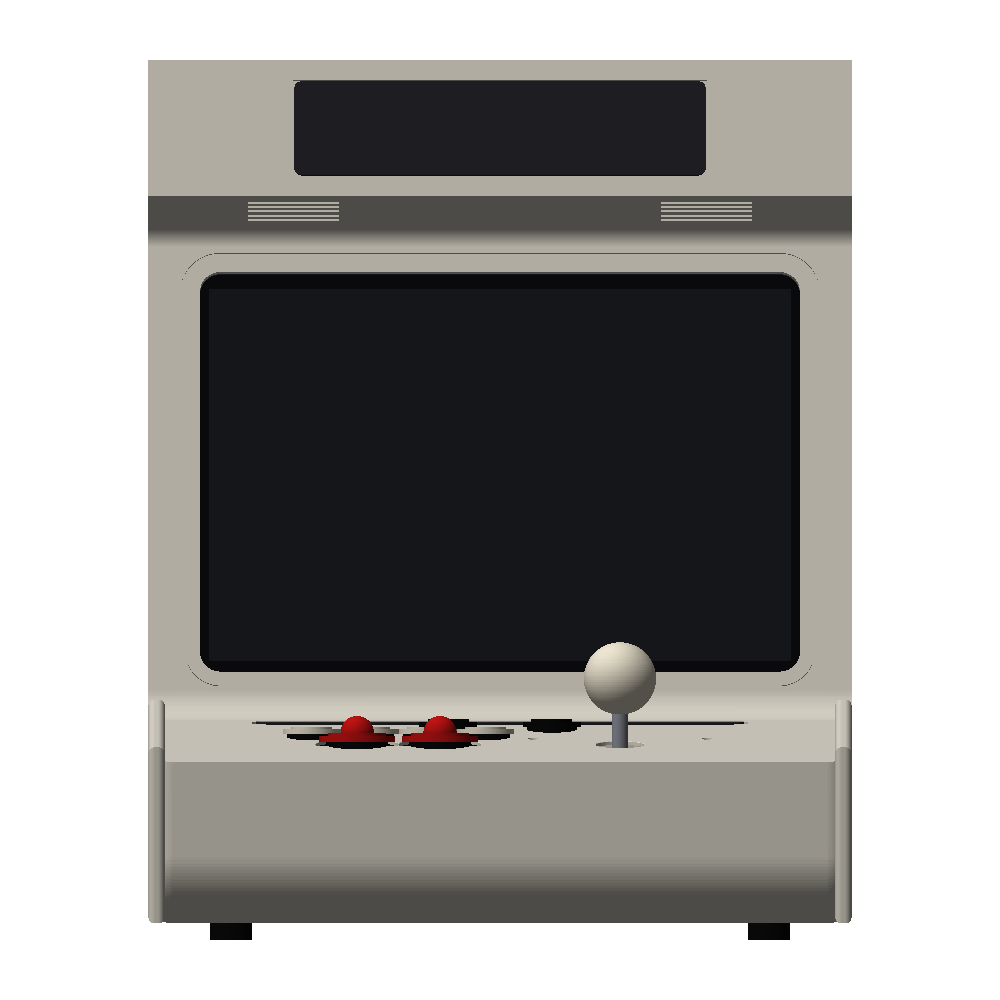
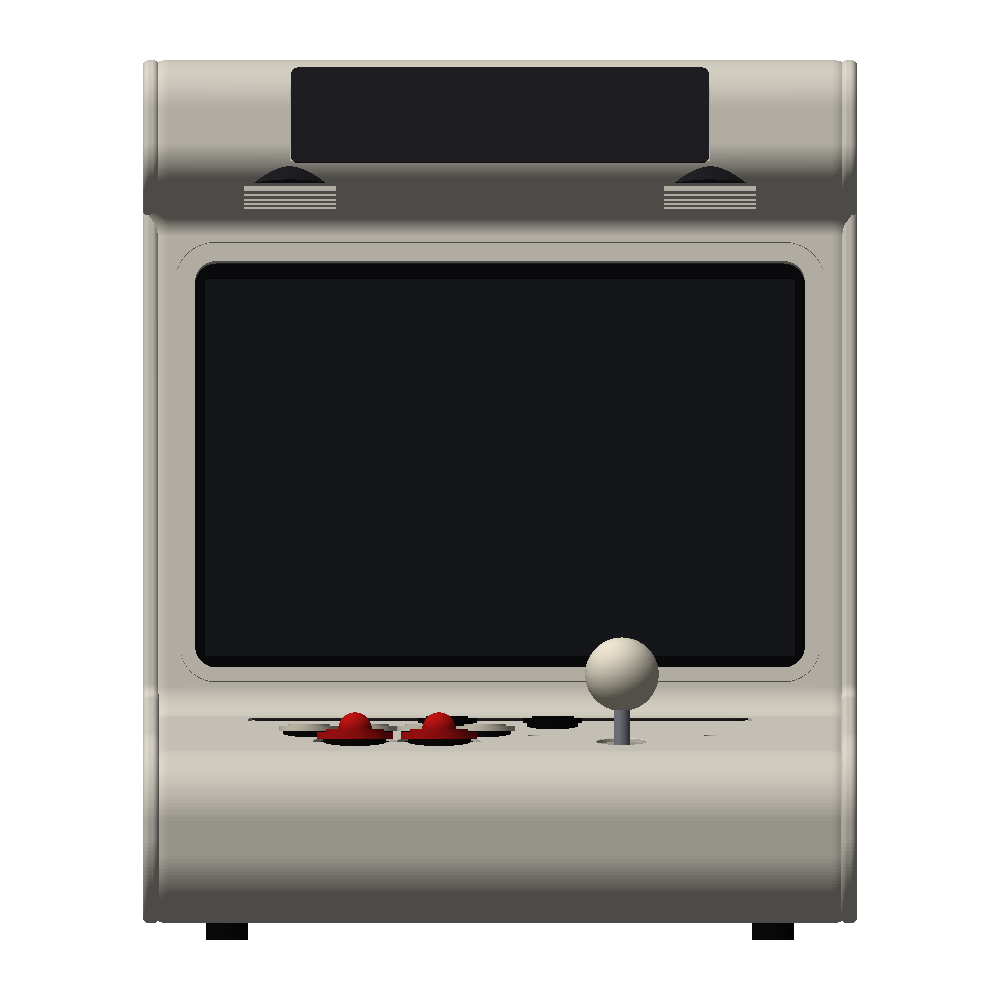
hardware: iteration 24 — fix silently-broken profile fillets
The 2D profile fillet vertex filter matched on v.Y/v.Z, but Plane.YZ
maps profile (y,z) to world (X,Z=0) — so every sketch fillet no-oped
silently except the corner at (0,0). All silhouette radii (nose roll,
marquee corners, back corners) had never actually applied. Filter fixed
to v.X/v.Y in shell + cheek sketches, each corner verified to match
exactly 1 vertex. Envelope height 417.3 -> 410.6 mm (the marquee-top
fillet removes real material now). panels.py side plates stay
sharp-cornered by construction (wrap panels span vertex to vertex);
dead fillet code removed and documented. Chain green, all guards OK.

Changed region(s): [[0.124, 0.062, 0.868, 0.93], [0.217, 0.651, 0.589, 0.682], [0.589, 0.62, 0.651, 0.651]]

diff --git a/hardware/cabinet.py b/hardware/cabinet.py
@@ -303,8 +303,11 @@ def build_cabinet(p=None):
                 if radius is None:
                     continue
                 y, z = profile[idx]
+                # Plane.YZ maps profile (y, z) to world (X=y, Y=z, Z=0) —
+                # matching v.Y/v.Z here silently matched nothing for every
+                # corner except (0, 0) (all sketch vertices have Z=0)
                 vtx = sk.vertices().filter_by(
-                    lambda v, y=y, z=z: abs(v.Y - y) < 1.0 and abs(v.Z - z) < 1.0
+                    lambda v, y=y, z=z: abs(v.X - y) < 1.0 and abs(v.Y - z) < 1.0
                 )
                 fillet(vtx, radius=radius)
         extrude(amount=p["cabinet_width"] / 2, both=True)
@@ -349,7 +352,7 @@ def build_cabinet(p=None):
                     continue
                 y, z = cheek_pts[idx]
                 vtx = csk.vertices().filter_by(
-                    lambda v, y=y, z=z: abs(v.Y - y) < 1.0 and abs(v.Z - z) < 1.0
+                    lambda v, y=y, z=z: abs(v.X - y) < 1.0 and abs(v.Y - z) < 1.0
                 )
                 fillet(vtx, radius=radius)
         cheek = Pos(sx * (p["cabinet_width"] / 2 - ct / 2), 0, 0) * extrude(

diff --git a/hardware/panels.py b/hardware/panels.py
@@ -296,21 +296,16 @@ def make_cleat(v, seg_in, seg_out):
 
 
 def make_side_plate(profile, radii, cleat_bolt_pts, side):
-    """Full rounded silhouette plate, 3 mm, with clearance holes for the
-    cleat end bolts."""
+    """Full silhouette plate, 3 mm, with clearance holes for the cleat
+    end bolts. Corners stay SHARP by construction: the wrap panels span
+    vertex to vertex, so rounding a plate corner would leave the panel
+    ends overhanging. (Corner softness on a metal build is a fab-shop
+    edge break, not modeled geometry.)"""
     t = PP["panel_thickness"]
     with BuildSketch(Plane.YZ) as sk:
         with BuildLine():
             Polyline(profile, close=True)
         make_face()
-        for idx, radius in radii.items():
-            if radius is None:
-                continue
-            y, z = profile[idx]
-            vtx = sk.vertices().filter_by(
-                lambda v, y=y, z=z: abs(v.Y - y) < 1.0 and abs(v.Z - z) < 1.0
-            )
-            fillet(vtx, radius=radius)
     plate = extrude(sk.sketch, amount=t / 2, both=True)
     for cy, cz in cleat_bolt_pts:
         plate -= Pos(0, cy, cz) * Rot(0, 90, 0) * Cylinder(

diff --git a/hardware/design-notes.md b/hardware/design-notes.md
@@ -409,3 +409,21 @@ switch, PSU, inserts, feet) — then an assembled render with the enclosure.
   from PARAMS (recess w/d - 2 mm gap, corner_r = recess + 3.5). Wrist
   rest improves to 48 mm. Chain green, all guards OK; the tessellate
   retry did not trigger this run.
+- Iteration 24 (2026-08-19, archived `iter-027`): **THE FILLET BUG** —
+  user caught that the nose roll "wasn't done" despite iter 23's params.
+  Root cause: the 2D profile fillet vertex filter matched on v.Y/v.Z,
+  but on Plane.YZ the profile (y, z) lands on world (X=y, Y=z, Z=0) —
+  so EVERY sketch fillet silently no-oped except vertex (0, 0). All
+  silhouette radii (nose, back, marquee corners) had never applied, in
+  every iteration since the profile builder existed; the softness in
+  renders came only from the 3D edge fillets. fillet([], r) no-ops
+  silently — a selection guard should have caught this. Fixed the filter
+  to v.X/v.Y in both the shell and cheek sketches and VERIFIED each
+  corner matches exactly 1 vertex before running. The silhouette now
+  shows the real radii: nose roll R34 (cheek R42), nose bottom R32
+  (cheek R40), marquee corners R30/R20, back corners R10/R22; envelope
+  height 417.3 -> 410.6 mm (the marquee-top fillet actually removes
+  material now). panels.py side plates intentionally stay SHARP-cornered
+  (dead fillet code removed + documented): wrap panels span vertex to
+  vertex, so rounding plate corners would leave panel ends overhanging;
+  metal-build corner softness is a fab edge break, not geometry.
